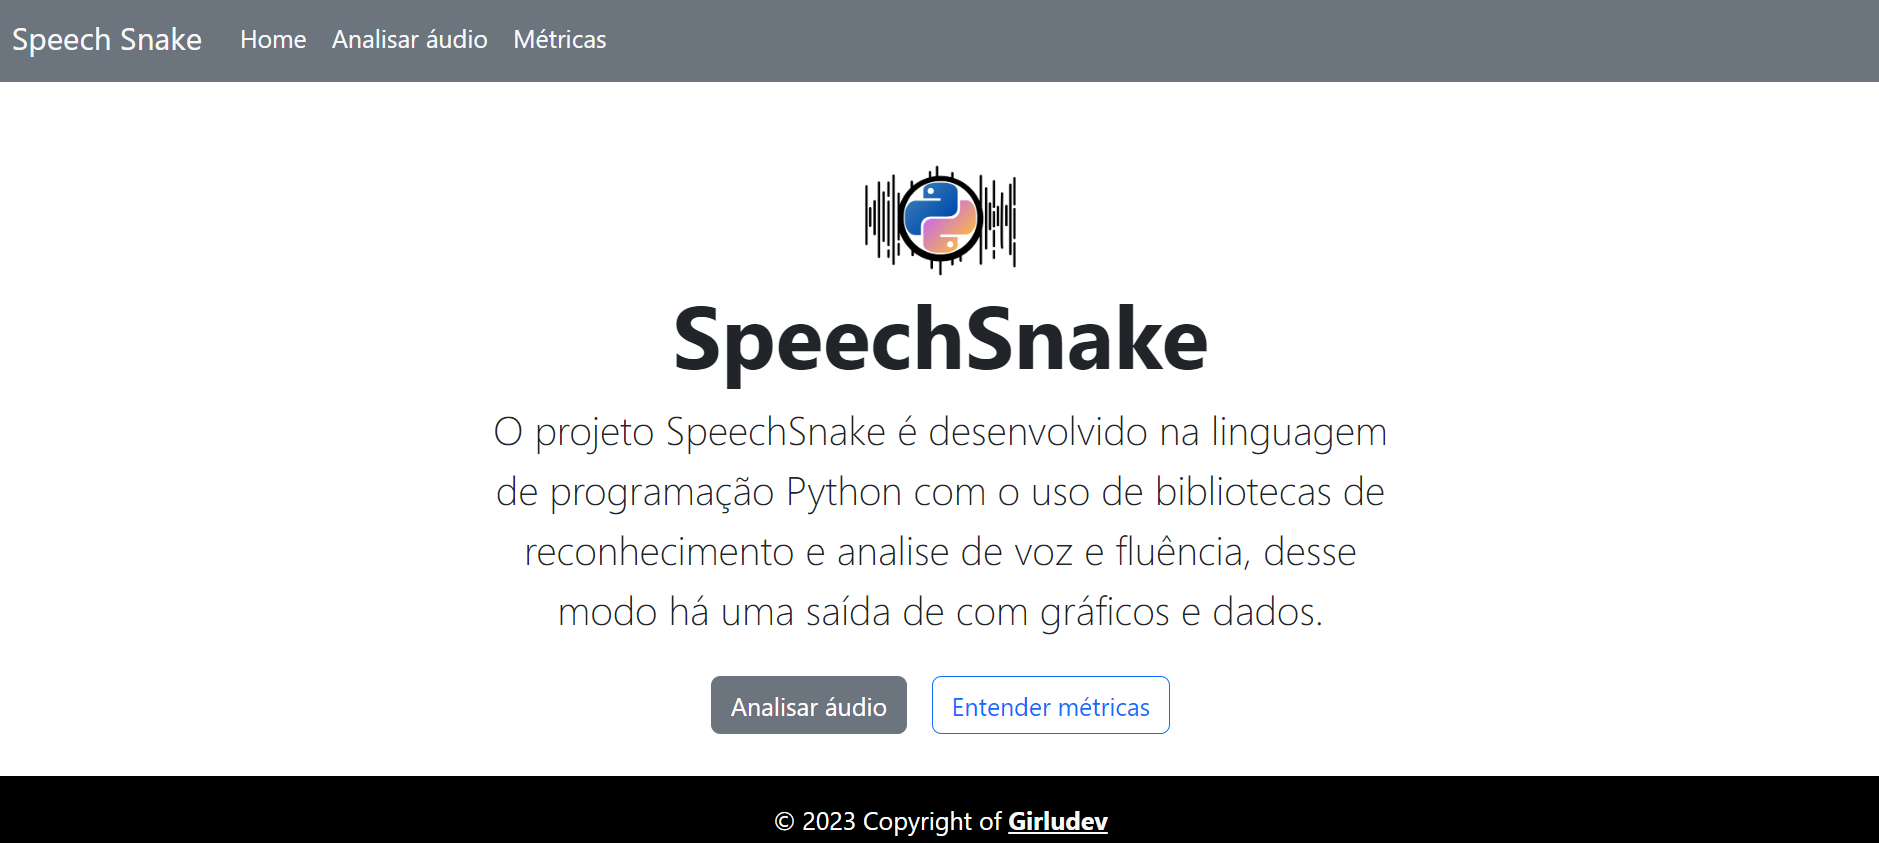
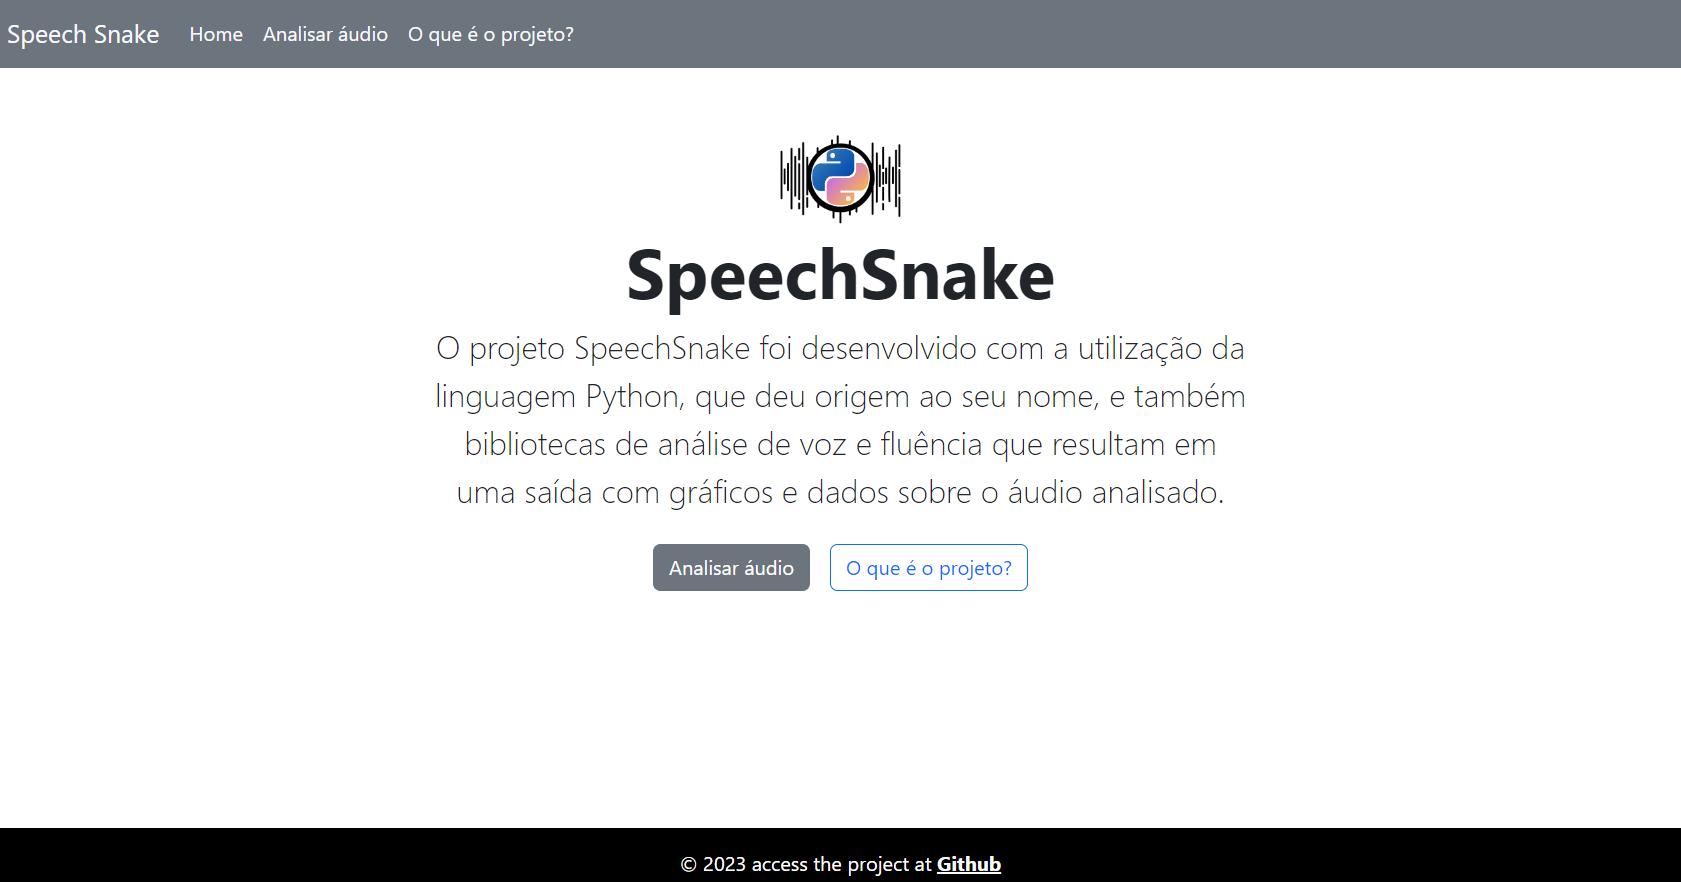
ajuste do readme

diff --git a/app/templates/audioupload.html b/app/templates/audioupload.html
@@ -16,7 +16,7 @@
     {% endwith %}
     <form action="/audioupload" enctype="multipart/form-data" method="POST">
       <div class="mb-3">
-        <label for="formFile" class="form-label fw-bold mb-3" style="font-size: 2rem;">Faça upload do seu áudio</label>
+        <h1 class="text-center mt-4">Faça upload do seu áudio</h1>
         <input class="form-control" type="file" id="formFile" name="audio">
       </div>
       <div class="alert alert-dark">

diff --git a/readme.md b/readme.md
@@ -2,7 +2,7 @@
 <img src="docs/images/pages/speechsnake.png" width="400">
 </center>
 
-### O projeto SpeechSnake foi desenvolvido com a utilização da linguagem Python, que deu origem ao seu nome, e também bibliotecas de análise de voz e fluência que resultam em uma saída com gráficos e dados sobre o áudio analisado.
+### O projeto SpeechSnake foi desenvolvido com a utilização da linguagem Python, que deu origem ao seu nome, e também bibliotecas de análise de voz e fluência que resultam em uma saída com gráficos e dados sobre o áudio analisado.
 
 </br>
 
@@ -35,12 +35,14 @@ Linux:
 Para executar o projeto em seu ambiente será necessário a utilização da versão do python >=3.7, <3.11.
 
 # 📃 Páginas
-
 ![Alt text](docs/images/pages/home.png)
-![Alt text](docs/images/pages/metrics.png)
-![Alt text](docs/images/pages/analytics_one.png)
-![Alt text](docs/images/pages/analytics_two.png)
-
+![Alt text](docs/images/pages/about_one.png)
+![Alt text](docs/images/pages/about_two.png)
+![Alt text](docs/images/pages/audioupload.png)
+![Alt text](docs/images/pages/formants.png)
+![Alt text](docs/images/pages/waveshow.png)
+![Alt text](docs/images/pages/f0.png)
+![Alt text](docs/images/pages/spectogram.png)
 # 🛠 Construído com
 
 - [Flask](https://flask.palletsprojects.com/) - Framework web - versão 2.2.3
@@ -51,13 +53,11 @@ Para executar o projeto em seu ambiente será necessário a utilização da vers
 - [BackBlaze](https://www.backblaze.com/) - Upload de arquivos na nuvem
 - [b2-sdk-python](https://b2-sdk-python.readthedocs.io/en/master/quick_start.html#copy-file) - É uma biblioteca cliente para fácil acesso a todos os recursos do B2 Cloud Storage.
 
-# ✒ Autores
 
-📚 Perfis profissionais:
-
-- **Desenvolvedor** - [Luzia Silva](https://github.com/Luzia-Silva)
-- **Pesquisador** - [Joyce Leal](https://www.linkedin.com/in/joyce-lebedasi/)
-- **Pesquisador/Desenvolvedor** - [Vinicius Augusto](https://www.linkedin.com/in/vinissilva/)
+<h3 align="center">Development Team</h3>
+<p align="center">
+<a href="https://www.linkedin.com/in/silva-luzia/"><img src="https://github.com/Luzia-Silva.png" width="50px" alt="image" /></a>&nbsp;&nbsp;<a href="https://www.linkedin.com/in/joyce-lebedasi/"><img src="https://media.licdn.com/dms/image/D4D03AQHptug0Jv2yuQ/profile-displayphoto-shrink_400_400/0/1670929234733?e=1691020800&v=beta&t=R1EOPamB8PLy6aBvaewb2jBmaAPmogTDkaFB8wnAGBM" width="50px" alt="image" /></a>&nbsp;&nbsp;<a href="https://www.linkedin.com/in/vinissilva/"><img src="https://media.licdn.com/dms/image/D4D03AQFnPPseEU_YlA/profile-displayphoto-shrink_400_400/0/1665557916695?e=1691020800&v=beta&t=9dlMHTsK2MoYJ8BgwjXnennfdrAFadUgRDOtkg_LwOw" width="50px" alt="image" /></a>
+</p>
 
 ## Acesse os nossos vídeos abaixo
 
@@ -66,6 +66,6 @@ Para executar o projeto em seu ambiente será necessário a utilização da vers
 <br>
 <br>
  <Center>
-      <p>Copyright © 2023 Girludev ❤</p>
+      <p>Copyright © 2023 Girludev Company ❤</p>
     
  </Center>
